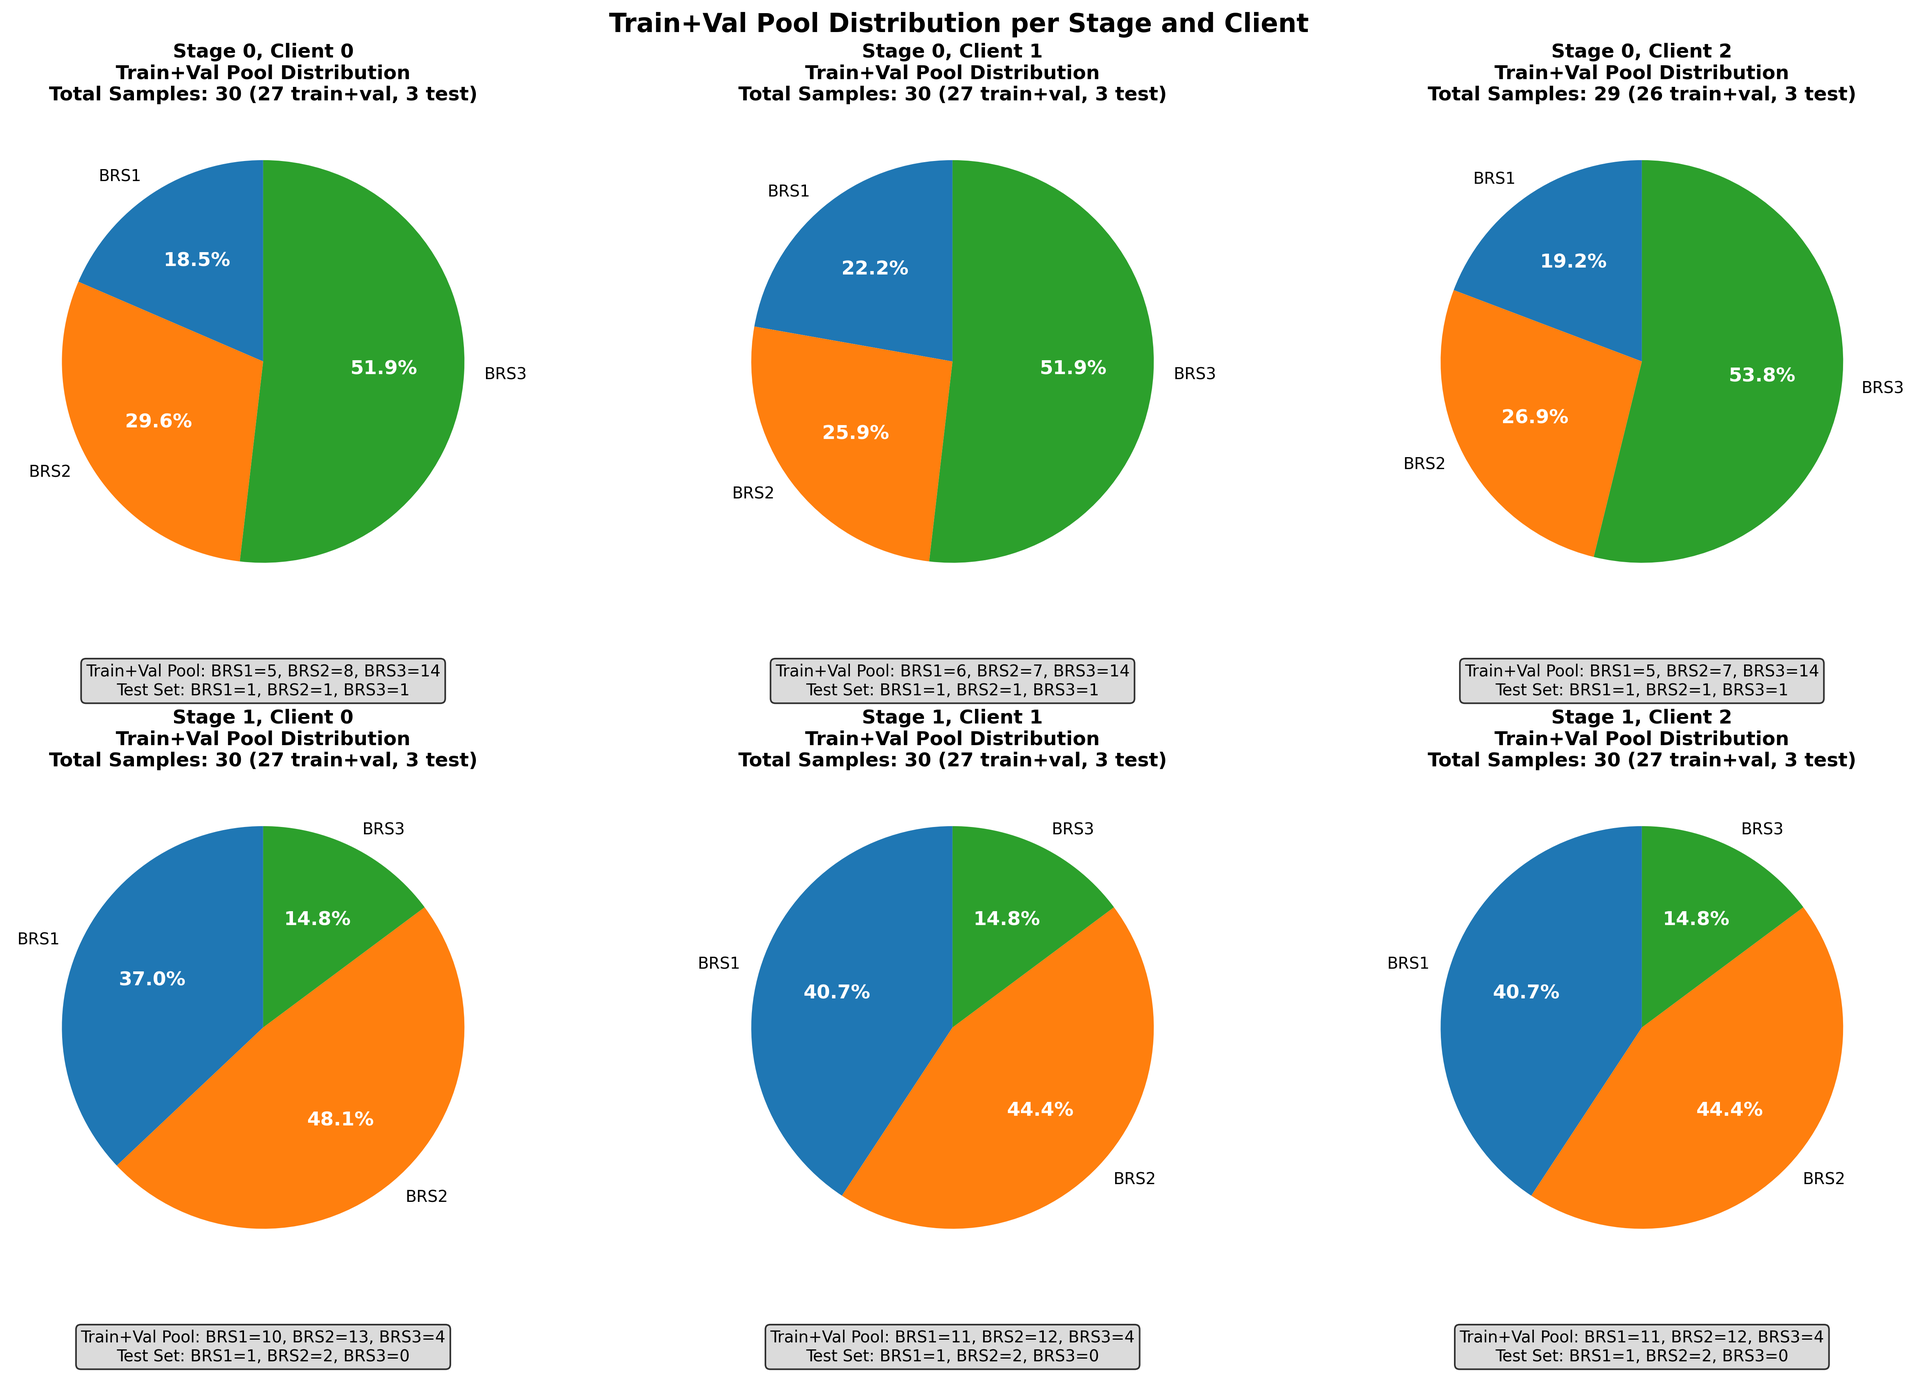
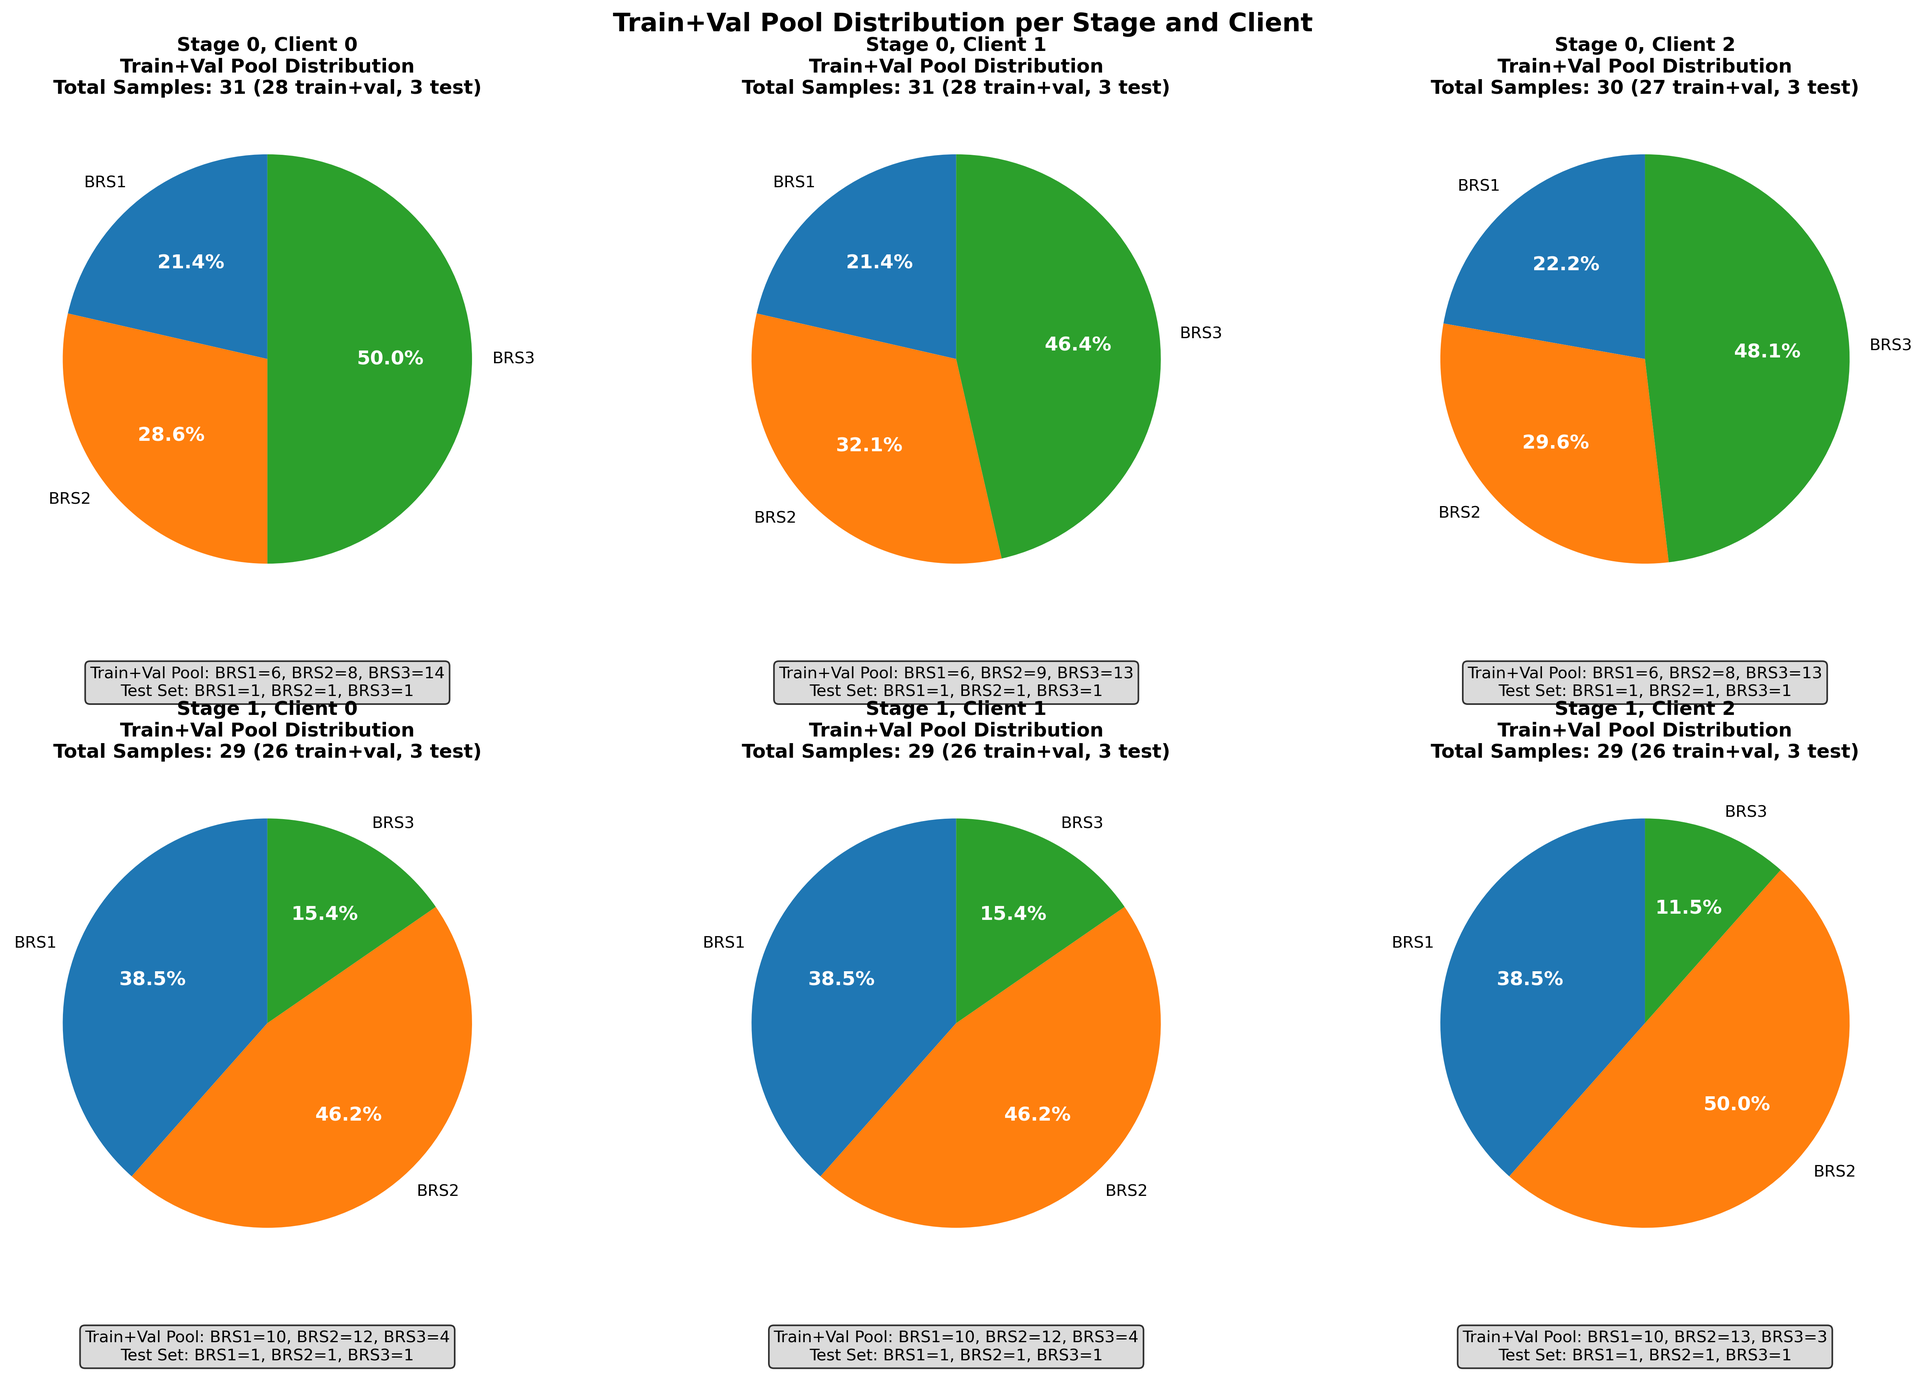
Framework done

diff --git a/train_cfcd/plot/plot_crossfold_group_comparison.py b/train_cfcd/plot/plot_crossfold_group_comparison.py
@@ -1167,7 +1167,7 @@ def plot_crossfold_group_comparison(experiment_groups: dict, submodel: str = 'MM
     
     suffix = "_".join(suffix_parts)
     group_names_clean = "_vs_".join([name.replace("_", "-") for name in all_group_data.keys()])
-    plot_path = os.path.join(ROOT_RESULTS, f"crossfold_group_comparison.png")
+    plot_path = os.path.join(ROOT_RESULTS, f"crossfold_group_comparison4.png")
     plt.savefig(plot_path, dpi=300, bbox_inches='tight')
     print(f"Cross-fold group comparison plot saved to {plot_path}")
     plt.show()
@@ -1330,3 +1330,15 @@ if __name__ == "__main__":
 # python plot_crossfold_group_comparison.py --groups '{"CFID Long": ["CFID_Long_s1", "CFID_Long_s2", "CFID_Long_s3", "CFID_Long_sp2_s1", "CFID_Long_sp2_s2", "CFID_Long_sp2_s3", "CFID_Long_sp3_s1","CFID_Long_sp3_s2","CFID_Long_sp3_s3","CFID_Long_sp4_s1","CFID_Long_sp4_s2","CFID_Long_sp4_s3","CFID_Long_sp5_s1","CFID_Long_sp5_s2","CFID_Long_sp5_s3"], "CF Long": ["CF_01_02_07_s1", "CF_01_02_07_Long_s2", "CF_01_02_07_Long_s3", "CF_01_02_07_Long_sp2_s1", "CF_01_02_07_Long_sp2_s2", "CF_01_02_07_Long_sp2_s3", "CF_01_02_07_Long_sp3_s1","CF_01_02_07_Long_sp3_s2","CF_01_02_07_Long_sp3_s3","CF_01_02_07_Long_sp4_s1","CF_01_02_07_Long_sp4_s2","CF_01_02_07_Long_sp4_s3","CF_01_02_07_Long_sp5_s1","CF_01_02_07_Long_sp5_s2","CF_01_02_07_Long_sp5_s3"], "CFID NO CD": ["CFID_nocd_s1", "CFID_nocd_s2", "CFID_nocd_s3", "CFID_nocd_sp2_s1", "CFID_nocd_sp2_s2", "CFID_nocd_sp2_s3", "CFID_nocd_sp3_s1","CFID_nocd_sp3_s2","CFID_nocd_sp3_s3","CFID_nocd_sp4_s1","CFID_nocd_sp4_s2","CFID_nocd_sp4_s3","CFID_nocd_sp5_s1","CFID_nocd_sp5_s2","CFID_nocd_sp5_s3"], "CF NO CD": ["CF_nocd_s1", "CF_nocd_s2", "CF_nocd_s3", "CF_nocd_sp2_s1", "CF_nocd_sp2_s2", "CF_nocd_sp2_s3", "CF_nocd_sp3_s1","CF_nocd_sp3_s2","CF_nocd_sp3_s3","CF_nocd_sp4_s1","CF_nocd_sp4_s2","CF_nocd_sp4_s3","CF_nocd_sp5_s1","CF_nocd_sp5_s2","CF_nocd_sp5_s3"]}' --submodel MM --metric_filter all --show_full_training --smooth_window 5 --show_std
 
 # python plot_crossfold_group_comparison.py --groups '{"CFCDID": ["CFCDID_s1", "CFCDID_s2", "CFCDID_s3", "CFCDID_sp2_s1", "CFCDID_sp2_s2", "CFCDID_sp2_s3", "CFCDID_sp3_s1","CFCDID_sp3_s2","CFCDID_sp3_s3","CFCDID_sp4_s1","CFCDID_sp4_s2","CFCDID_sp4_s3","CFCDID_sp5_s1","CFCDID_sp5_s2","CFCDID_sp5_s3"], "CFCD": ["CFCD_s1", "CFCD_s2", "CFCD_s3", "CFCD_sp2_s1", "CFCD_sp2_s2", "CFCD_sp2_s3", "CFCD_sp3_s1","CFCD_sp3_s2","CFCD_sp3_s3","CFCD_sp4_s1","CFCD_sp4_s2","CFCD_sp4_s3","CFCD_sp5_s1","CFCD_sp5_s2","CFCD_sp5_s3"],"CFCDIDnew": ["CFCDIDnew_s1", "CFCDIDnew_s2", "CFCDIDnew_s3", "CFCDIDnew_sp2_s1", "CFCDIDnew_sp2_s2", "CFCDIDnew_sp2_s3", "CFCDIDnew_sp3_s1","CFCDIDnew_sp3_s2","CFCDIDnew_sp3_s3","CFCDIDnew_sp4_s1","CFCDIDnew_sp4_s2","CFCDIDnew_sp4_s3","CFCDIDnew_sp5_s1","CFCDIDnew_sp5_s2","CFCDIDnew_sp5_s3"], "CFCDnew_swap": ["CFCDnew_swap_s1", "CFCDnew_swap_s2", "CFCDnew_swap_s3", "CFCDnew_swap_sp2_s1", "CFCDnew_swap_sp2_s2", "CFCDnew_swap_sp2_s3", "CFCDnew_swap_sp3_s1","CFCDnew_swap_sp3_s2","CFCDnew_swap_sp3_s3","CFCDnew_swap_sp4_s1","CFCDnew_swap_sp4_s2","CFCDnew_swap_sp4_s3","CFCDnew_swap_sp5_s1","CFCDnew_swap_sp5_s2","CFCDnew_swap_sp5_s3"]}' --submodel MM --metric_filter all --show_full_training --smooth_window 5 --show_std
+
+# python plot_crossfold_group_comparison.py --groups '{"CFID Long": ["CFID_Long_s1", "CFID_Long_s2", "CFID_Long_s3", "CFID_Long_sp2_s1", "CFID_Long_sp2_s2", "CFID_Long_sp2_s3", "CFID_Long_sp3_s1","CFID_Long_sp3_s2","CFID_Long_sp3_s3","CFID_Long_sp4_s1","CFID_Long_sp4_s2","CFID_Long_sp4_s3","CFID_Long_sp5_s1","CFID_Long_sp5_s2","CFID_Long_sp5_s3"], "CF Long": ["CF_01_02_07_s1", "CF_01_02_07_Long_s2", "CF_01_02_07_Long_s3", "CF_01_02_07_Long_sp2_s1", "CF_01_02_07_Long_sp2_s2", "CF_01_02_07_Long_sp2_s3", "CF_01_02_07_Long_sp3_s1","CF_01_02_07_Long_sp3_s2","CF_01_02_07_Long_sp3_s3","CF_01_02_07_Long_sp4_s1","CF_01_02_07_Long_sp4_s2","CF_01_02_07_Long_sp4_s3","CF_01_02_07_Long_sp5_s1","CF_01_02_07_Long_sp5_s2","CF_01_02_07_Long_sp5_s3"], "CFID NO CD": ["CFID_nocd_s1", "CFID_nocd_s2", "CFID_nocd_s3", "CFID_nocd_sp2_s1", "CFID_nocd_sp2_s2", "CFID_nocd_sp2_s3", "CFID_nocd_sp3_s1","CFID_nocd_sp3_s2","CFID_nocd_sp3_s3","CFID_nocd_sp4_s1","CFID_nocd_sp4_s2","CFID_nocd_sp4_s3","CFID_nocd_sp5_s1","CFID_nocd_sp5_s2","CFID_nocd_sp5_s3"], "CF NO CD": ["CF_nocd_s1", "CF_nocd_s2", "CF_nocd_s3", "CF_nocd_sp2_s1", "CF_nocd_sp2_s2", "CF_nocd_sp2_s3", "CF_nocd_sp3_s1","CF_nocd_sp3_s2","CF_nocd_sp3_s3","CF_nocd_sp4_s1","CF_nocd_sp4_s2","CF_nocd_sp4_s3","CF_nocd_sp5_s1","CF_nocd_sp5_s2","CF_nocd_sp5_s3"], "CF balanced Test": ["CF_nocd_1_each_s1", "CF_nocd_1_each_s2", "CF_nocd_1_each_s3", "CF_nocd_1_each_sp2_s1", "CF_nocd_1_each_sp2_s2", "CF_nocd_1_each_sp2_s3", "CF_nocd_1_each_sp3_s1","CF_nocd_1_each_sp3_s2","CF_nocd_1_each_sp3_s3","CF_nocd_1_each_sp4_s1","CF_nocd_1_each_sp4_s2","CF_nocd_1_each_sp4_s3","CF_nocd_1_each_sp5_s1","CF_nocd_1_each_sp5_s2","CF_nocd_1_each_sp5_s3"]}' --submodel MM --metric_filter all --show_full_training --smooth_window 5 --show_std
+
+# python plot_crossfold_group_comparison.py --groups '{"CFID Long": ["CFID_Long_s1", "CFID_Long_s2", "CFID_Long_s3", "CFID_Long_sp2_s1", "CFID_Long_sp2_s2", "CFID_Long_sp2_s3", "CFID_Long_sp3_s1","CFID_Long_sp3_s2","CFID_Long_sp3_s3","CFID_Long_sp4_s1","CFID_Long_sp4_s2","CFID_Long_sp4_s3","CFID_Long_sp5_s1","CFID_Long_sp5_s2","CFID_Long_sp5_s3"], "CFID NO CD": ["CFID_nocd_s1", "CFID_nocd_s2", "CFID_nocd_s3", "CFID_nocd_sp2_s1", "CFID_nocd_sp2_s2", "CFID_nocd_sp2_s3", "CFID_nocd_sp3_s1","CFID_nocd_sp3_s2","CFID_nocd_sp3_s3","CFID_nocd_sp4_s1","CFID_nocd_sp4_s2","CFID_nocd_sp4_s3","CFID_nocd_sp5_s1","CFID_nocd_sp5_s2","CFID_nocd_sp5_s3"], "CF NO CD": ["CF_nocd_s1", "CF_nocd_s2", "CF_nocd_s3", "CF_nocd_sp2_s1", "CF_nocd_sp2_s2", "CF_nocd_sp2_s3", "CF_nocd_sp3_s1","CF_nocd_sp3_s2","CF_nocd_sp3_s3","CF_nocd_sp4_s1","CF_nocd_sp4_s2","CF_nocd_sp4_s3","CF_nocd_sp5_s1","CF_nocd_sp5_s2","CF_nocd_sp5_s3"], "CF balanced Test": ["CF_nocd_1_each_s1", "CF_nocd_1_each_s2", "CF_nocd_1_each_s3", "CF_nocd_1_each_sp2_s1", "CF_nocd_1_each_sp2_s2", "CF_nocd_1_each_sp2_s3", "CF_nocd_1_each_sp3_s1","CF_nocd_1_each_sp3_s2","CF_nocd_1_each_sp3_s3","CF_nocd_1_each_sp4_s1","CF_nocd_1_each_sp4_s2","CF_nocd_1_each_sp4_s3","CF_nocd_1_each_sp5_s1","CF_nocd_1_each_sp5_s2","CF_nocd_1_each_sp5_s3"], "CFID balanced Test": ["CFID_nocd_1_each_s1", "CFID_nocd_1_each_s2", "CFID_nocd_1_each_s3", "CFID_nocd_1_each_sp2_s1", "CFID_nocd_1_each_sp2_s2", "CFID_nocd_1_each_sp2_s3", "CFID_nocd_1_each_sp3_s1","CFID_nocd_1_each_sp3_s2","CFID_nocd_1_each_sp3_s3","CFID_nocd_1_each_sp4_s1","CFID_nocd_1_each_sp4_s2","CFID_nocd_1_each_sp4_s3","CFID_nocd_1_each_sp5_s1","CFID_nocd_1_each_sp5_s2","CFID_nocd_1_each_sp5_s3"]}' --submodel MM --metric_filter all --show_full_training --smooth_window 5 --show_std
+
+# python plot_crossfold_group_comparison.py --groups '{"CFCDID": ["CFCDID_s1", "CFCDID_s2", "CFCDID_s3", "CFCDID_sp2_s1", "CFCDID_sp2_s2", "CFCDID_sp2_s3", "CFCDID_sp3_s1","CFCDID_sp3_s2","CFCDID_sp3_s3","CFCDID_sp4_s1","CFCDID_sp4_s2","CFCDID_sp4_s3","CFCDID_sp5_s1","CFCDID_sp5_s2","CFCDID_sp5_s3"], "CFCD": ["CFCD_s1", "CFCD_s2", "CFCD_s3", "CFCD_sp2_s1", "CFCD_sp2_s2", "CFCD_sp2_s3", "CFCD_sp3_s1","CFCD_sp3_s2","CFCD_sp3_s3","CFCD_sp4_s1","CFCD_sp4_s2","CFCD_sp4_s3","CFCD_sp5_s1","CFCD_sp5_s2","CFCD_sp5_s3"],"CFCDIDnew": ["CFCDIDnew_s1", "CFCDIDnew_s2", "CFCDIDnew_s3", "CFCDIDnew_sp2_s1", "CFCDIDnew_sp2_s2", "CFCDIDnew_sp2_s3", "CFCDIDnew_sp3_s1","CFCDIDnew_sp3_s2","CFCDIDnew_sp3_s3","CFCDIDnew_sp4_s1","CFCDIDnew_sp4_s2","CFCDIDnew_sp4_s3","CFCDIDnew_sp5_s1","CFCDIDnew_sp5_s2","CFCDIDnew_sp5_s3"], "CFCDnew_swap": ["CFCDnew_swap_s1", "CFCDnew_swap_s2", "CFCDnew_swap_s3", "CFCDnew_swap_sp2_s1", "CFCDnew_swap_sp2_s2", "CFCDnew_swap_sp2_s3", "CFCDnew_swap_sp3_s1","CFCDnew_swap_sp3_s2","CFCDnew_swap_sp3_s3","CFCDnew_swap_sp4_s1","CFCDnew_swap_sp4_s2","CFCDnew_swap_sp4_s3","CFCDnew_swap_sp5_s1","CFCDnew_swap_sp5_s2","CFCDnew_swap_sp5_s3"],"CFCD Balanced Test": ["CFCDnew_swap_1_each_s1", "CFCDnew_swap_1_each_s2", "CFCDnew_swap_1_each_s3", "CFCDnew_swap_1_each_sp2_s1", "CFCDnew_swap_1_each_sp2_s2", "CFCDnew_swap_1_each_sp2_s3", "CFCDnew_swap_1_each_sp3_s1","CFCDnew_swap_1_each_sp3_s2","CFCDnew_swap_1_each_sp3_s3","CFCDnew_swap_1_each_sp4_s1","CFCDnew_swap_1_each_sp4_s2","CFCDnew_swap_1_each_sp4_s3","CFCDnew_swap_1_each_sp5_s1","CFCDnew_swap_1_each_sp5_s2","CFCDnew_swap_1_each_sp5_s3"], "CFCDID Balanced": ["CFCDIDnew_1_each_s1", "CFCDIDnew_1_each_s2", "CFCDIDnew_1_each_s3", "CFCDIDnew_1_each_sp2_s1", "CFCDIDnew_1_each_sp2_s2", "CFCDIDnew_1_each_sp2_s3", "CFCDIDnew_1_each_sp3_s1","CFCDIDnew_1_each_sp3_s2","CFCDIDnew_1_each_sp3_s3","CFCDIDnew_1_each_sp4_s1","CFCDIDnew_1_each_sp4_s2","CFCDIDnew_1_each_sp4_s3","CFCDIDnew_1_each_sp5_s1","CFCDIDnew_1_each_sp5_s2","CFCDIDnew_1_each_sp5_s3"],"CFCD Full": ["CFCDnew_swap_1_each_fullaug_s1", "CFCDnew_swap_1_each_fullaug_s2", "CFCDnew_swap_1_each_fullaug_s3", "CFCDnew_swap_1_each_fullaug_sp2_s1", "CFCDnew_swap_1_each_fullaug_sp2_s2", "CFCDnew_swap_1_each_fullaug_sp2_s3", "CFCDnew_swap_1_each_fullaug_sp3_s1","CFCDnew_swap_1_each_fullaug_sp3_s2","CFCDnew_swap_1_each_fullaug_sp3_s3","CFCDnew_swap_1_each_fullaug_sp4_s1","CFCDnew_swap_1_each_fullaug_sp4_s2","CFCDnew_swap_1_each_fullaug_sp4_s3","CFCDnew_swap_1_each_fullaug_sp5_s1","CFCDnew_swap_1_each_fullaug_sp5_s2","CFCDnew_swap_1_each_fullaug_sp5_s3"]}' --submodel MM --metric_filter all --show_full_training --smooth_window 5 --show_std
+
+# python plot_crossfold_group_comparison.py --groups '{"CF_nocd_1_each_same_test": ["CF_nocd_1_each_same_test_s1", "CF_nocd_1_each_same_test_s2", "CF_nocd_1_each_same_test_s3", "CF_nocd_1_each_same_test_sp2_s1", "CF_nocd_1_each_same_test_sp2_s2", "CF_nocd_1_each_same_test_sp2_s3", "CF_nocd_1_each_same_test_sp3_s1","CF_nocd_1_each_same_test_sp3_s2","CF_nocd_1_each_same_test_sp3_s3","CF_nocd_1_each_same_test_sp4_s1","CF_nocd_1_each_same_test_sp4_s2","CF_nocd_1_each_same_test_sp4_s3","CF_nocd_1_each_same_test_sp5_s1","CF_nocd_1_each_same_test_sp5_s2","CF_nocd_1_each_same_test_sp5_s3"], "CFID_nocd_same_1_each": ["CFID_nocd_same_1_each_s1", "CFID_nocd_same_1_each_s2", "CFID_nocd_same_1_each_s3", "CFID_nocd_same_1_each_sp2_s1", "CFID_nocd_same_1_each_sp2_s2", "CFID_nocd_same_1_each_sp2_s3", "CFID_nocd_same_1_each_sp3_s1","CFID_nocd_same_1_each_sp3_s2","CFID_nocd_same_1_each_sp3_s3","CFID_nocd_same_1_each_sp4_s1","CFID_nocd_same_1_each_sp4_s2","CFID_nocd_same_1_each_sp4_s3","CFID_nocd_same_1_each_sp5_s1","CFID_nocd_same_1_each_sp5_s2","CFID_nocd_same_1_each_sp5_s3"]}' --submodel MM --metric_filter all --show_full_training --smooth_window 5 --show_std
+
+# python plot_crossfold_group_comparison.py --groups '{"CFCDIDnew_same_1_each": ["CFCDIDnew_same_1_each_s1", "CFCDIDnew_same_1_each_s2", "CFCDIDnew_same_1_each_s3", "CFCDIDnew_same_1_each_sp2_s1", "CFCDIDnew_same_1_each_sp2_s2", "CFCDIDnew_same_1_each_sp2_s3", "CFCDIDnew_same_1_each_sp3_s1","CFCDIDnew_same_1_each_sp3_s2","CFCDIDnew_same_1_each_sp3_s3","CFCDIDnew_same_1_each_sp4_s1","CFCDIDnew_same_1_each_sp4_s2","CFCDIDnew_same_1_each_sp4_s3","CFCDIDnew_same_1_each_sp5_s1","CFCDIDnew_same_1_each_sp5_s2","CFCDIDnew_same_1_each_sp5_s3"], "CFCDnew_swap_same_1_each_fullaug": ["CFCDnew_swap_same_1_each_fullaug_s1", "CFCDnew_swap_same_1_each_fullaug_s2", "CFCDnew_swap_same_1_each_fullaug_s3", "CFCDnew_swap_same_1_each_fullaug_sp2_s1", "CFCDnew_swap_same_1_each_fullaug_sp2_s2", "CFCDnew_swap_same_1_each_fullaug_sp2_s3", "CFCDnew_swap_same_1_each_fullaug_sp3_s1","CFCDnew_swap_same_1_each_fullaug_sp3_s2","CFCDnew_swap_same_1_each_fullaug_sp3_s3","CFCDnew_swap_same_1_each_fullaug_sp4_s1","CFCDnew_swap_same_1_each_fullaug_sp4_s2","CFCDnew_swap_same_1_each_fullaug_sp4_s3","CFCDnew_swap_same_1_each_fullaug_sp5_s1","CFCDnew_swap_same_1_each_fullaug_sp5_s2","CFCDnew_swap_same_1_each_fullaug_sp5_s3"]}' --submodel MM --metric_filter all --show_full_training --smooth_window 5 --show_std
+
+# python plot_crossfold_group_comparison.py --groups '{"CFCDID Balanced": ["CFCDIDnew_1_each_s1", "CFCDIDnew_1_each_s2", "CFCDIDnew_1_each_s3", "CFCDIDnew_1_each_sp2_s1", "CFCDIDnew_1_each_sp2_s2", "CFCDIDnew_1_each_sp2_s3", "CFCDIDnew_1_each_sp3_s1","CFCDIDnew_1_each_sp3_s2","CFCDIDnew_1_each_sp3_s3","CFCDIDnew_1_each_sp4_s1","CFCDIDnew_1_each_sp4_s2","CFCDIDnew_1_each_sp4_s3","CFCDIDnew_1_each_sp5_s1","CFCDIDnew_1_each_sp5_s2","CFCDIDnew_1_each_sp5_s3"],"CFCD Full": ["CFCDnew_swap_1_each_fullaug_s1", "CFCDnew_swap_1_each_fullaug_s2", "CFCDnew_swap_1_each_fullaug_s3", "CFCDnew_swap_1_each_fullaug_sp2_s1", "CFCDnew_swap_1_each_fullaug_sp2_s2", "CFCDnew_swap_1_each_fullaug_sp2_s3", "CFCDnew_swap_1_each_fullaug_sp3_s1","CFCDnew_swap_1_each_fullaug_sp3_s2","CFCDnew_swap_1_each_fullaug_sp3_s3","CFCDnew_swap_1_each_fullaug_sp4_s1","CFCDnew_swap_1_each_fullaug_sp4_s2","CFCDnew_swap_1_each_fullaug_sp4_s3","CFCDnew_swap_1_each_fullaug_sp5_s1","CFCDnew_swap_1_each_fullaug_sp5_s2","CFCDnew_swap_1_each_fullaug_sp5_s3"]}' --submodel MM --metric_filter all --show_full_training --smooth_window 5 --show_std

diff --git a/train_cfcd/create_split_local_test_data_unbalanced_stages_no_cd_same_tests.py b/train_cfcd/create_split_local_test_data_unbalanced_stages_no_cd_same_tests.py
@@ -42,6 +42,13 @@ def create_k_clients_cross_fold_splits_stages(num_clients: int, test_p: float = 
     np.random.shuffle(ids_brs3)
     np.random.shuffle(ids_brs2)
     np.random.shuffle(ids_brs1)
+    
+    test_ids_brs3 = ids_brs3[:6]
+    test_ids_brs2 = ids_brs2[:6]
+    test_ids_brs1 = ids_brs1[:6]
+    ids_brs3 = ids_brs3[6:]
+    ids_brs2 = ids_brs2[6:]
+    ids_brs1 = ids_brs1[6:]
 
     stage1_ids_brs3 = ids_brs3[:int(len(ids_brs3)*brs3_balances[0])]
     stage2_ids_brs3 = ids_brs3[int(len(ids_brs3)*brs3_balances[0]):]
@@ -60,6 +67,8 @@ def create_k_clients_cross_fold_splits_stages(num_clients: int, test_p: float = 
 
     print("Final counts per client:", len(all_stage_ids[0]), len(all_stage_ids[1]))
     
+    client_stage = 0
+    
     for s in range(stages):
         stage_ids = all_stage_ids[s]
         stage_labels = [labels[id] for id in stage_ids]
@@ -69,12 +78,16 @@ def create_k_clients_cross_fold_splits_stages(num_clients: int, test_p: float = 
             client_ids = [stage_ids[j] for j in train_data_idx]
             client_labels = [labels[j] for j in client_ids]
             print(f"  Client {i+1}/{num_clients}: {len(client_ids)} samples, label distribution: {np.unique([labels[j] for j in client_ids], return_counts=True)}, e.g., {client_ids[0], client_labels[0]}")
-            test_id_brs3 = [id for id in client_ids if labels[id] == label_to_int["BRS3"]][0]
-            test_id_brs2 = [id for id in client_ids if labels[id] == label_to_int["BRS2"]][0]
-            test_id_brs1 = [id for id in client_ids if labels[id] == label_to_int["BRS1"]][0]
-            test_ids = [test_id_brs3, test_id_brs2, test_id_brs1]
-            train_val_ids = [id for id in client_ids if id not in test_ids]
+            # test_id_brs3 = [id for id in client_ids if labels[id] == label_to_int["BRS3"]][0]
+            # test_id_brs2 = [id for id in client_ids if labels[id] == label_to_int["BRS2"]][0]
+            # test_id_brs1 = [id for id in client_ids if labels[id] == label_to_int["BRS1"]][0]
+            # test_ids = [test_id_brs3, test_id_brs2, test_id_brs1]
+            # train_val_ids = [id for id in client_ids if id not in test_ids]
             # train_val_ids, test_ids = train_test_split(client_ids, test_size=test_p, random_state=seed+i, stratify=client_labels)
+            train_val_ids = client_ids
+            test_ids = [test_ids_brs3[client_stage], test_ids_brs2[client_stage], test_ids_brs1[client_stage]]
+            client_stage += 1
+            
             
             skf_cross_fold = StratifiedKFold(n_splits=folds, shuffle=True, random_state=seed+i)
             
@@ -145,15 +158,15 @@ if __name__ == "__main__":
     num_clients = 3
     test_p = 0.1
     balance = True
-    seed = 1
+    seed = 5
     folds = 5
     stages = 2
-    brs3_balances =  [0.8, 0.2]
+    brs3_balances =  [0.5, 0.5]
     assert sum(brs3_balances) == 1.0, "Balances must sum to 1.0"
     output_dir = "splits/"
 
     splits_generator = create_k_clients_cross_fold_splits_stages(num_clients=num_clients, test_p=test_p, folds=folds, stages=stages, brs3_balances=brs3_balances, seed=seed, verbose=True, as_filename=True)
     
     splits = list(splits_generator)
-    create_csv_split(splits, name=f"chimera_{num_clients}_{folds}_{stages}_1_each_{seed}_unbalanced_{brs3_balances[0]}_{brs3_balances[1]}_nocd", num_clients=num_clients, num_folds=folds, num_stages=stages, outputs_dir=output_dir)
+    create_csv_split(splits, name=f"chimera_{num_clients}_{folds}_{stages}_same_1_each_{seed}_unbalanced_{brs3_balances[0]}_{brs3_balances[1]}_nocd", num_clients=num_clients, num_folds=folds, num_stages=stages, outputs_dir=output_dir)
 

diff --git a/train_cfcd/simple_stages_pie_charts.py b/train_cfcd/simple_stages_pie_charts.py
@@ -368,7 +368,11 @@ def main():
     """Main function to run the stages analysis."""
     # Path to the stages splits directory - update this to your actual path
     # splits_dir = "/gris/gris-f/homelv/phempel/masterthesis/MM_flower/train_cfcd/splits/chimera_3_5_2_0.1_1_unbalanced_0.1_0.2_0.7"
-    splits_dir = "/gris/gris-f/homelv/phempel/masterthesis/MM_flower/train_cfcd/splits/chimera_3_5_2_0.1_1_unbalanced_0.8_0.2_nocd"
+    # splits_dir = "/gris/gris-f/homelv/phempel/masterthesis/MM_flower/train_cfcd/splits/chimera_3_5_2_0.1_1_unbalanced_0.8_0.2_nocd"
+    # splits_dir = "/gris/gris-f/homelv/phempel/masterthesis/MM_flower/train_cfcd/splits/chimera_3_5_2_1_each_1_balanced_0.8_0.2_nocd"
+    # splits_dir = "/gris/gris-f/homelv/phempel/masterthesis/MM_flower/train_cfcd/splits/chimera_3_5_2_1_each_1_unbalanced_0.8_0.2_nocd"
+    # splits_dir = "/gris/gris-f/homelv/phempel/masterthesis/MM_flower/train_cfcd/splits/chimera_3_5_2_1_each_1_balanced_0.5_0.5_nocd"
+    splits_dir = "/gris/gris-f/homelv/phempel/masterthesis/MM_flower/train_cfcd/splits/chimera_3_5_2_same_1_each_1_unbalanced_0.8_0.2_nocd"
     
     if not os.path.exists(splits_dir):
         print(f"Error: Splits directory not found: {splits_dir}")

diff --git a/train_cfcd/x.py b/train_cfcd/x.py
@@ -1,0 +1,4 @@
+import numpy as np
+label_list = [1, 1, 0, 0, 0, 1, 0, 2, 1, 2, 0, 2, 1, 2, 1, 2, 0, 1, 1, 0, 0, 2, 2, 1, 0, 0, 0, 0, 0, 1, 2, 1, 0, 1, 2, 0, 2, 0, 0, 1, 2, 2]
+label_list = np.array(label_list)
+print([label_list==1])
